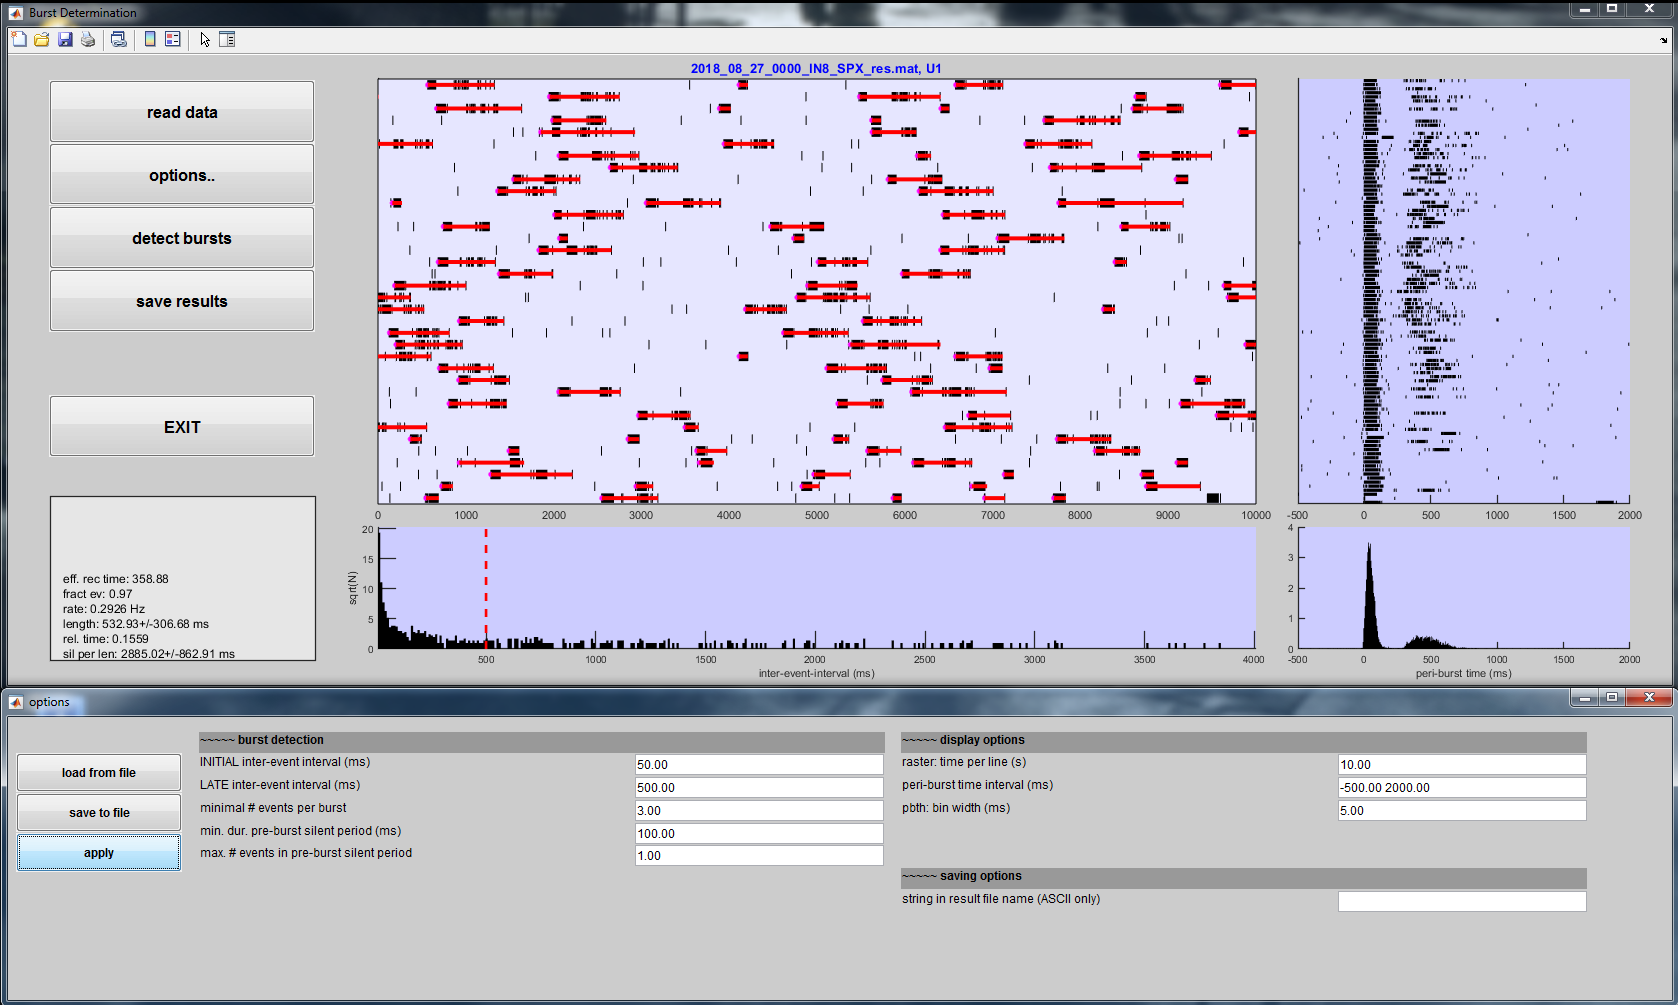
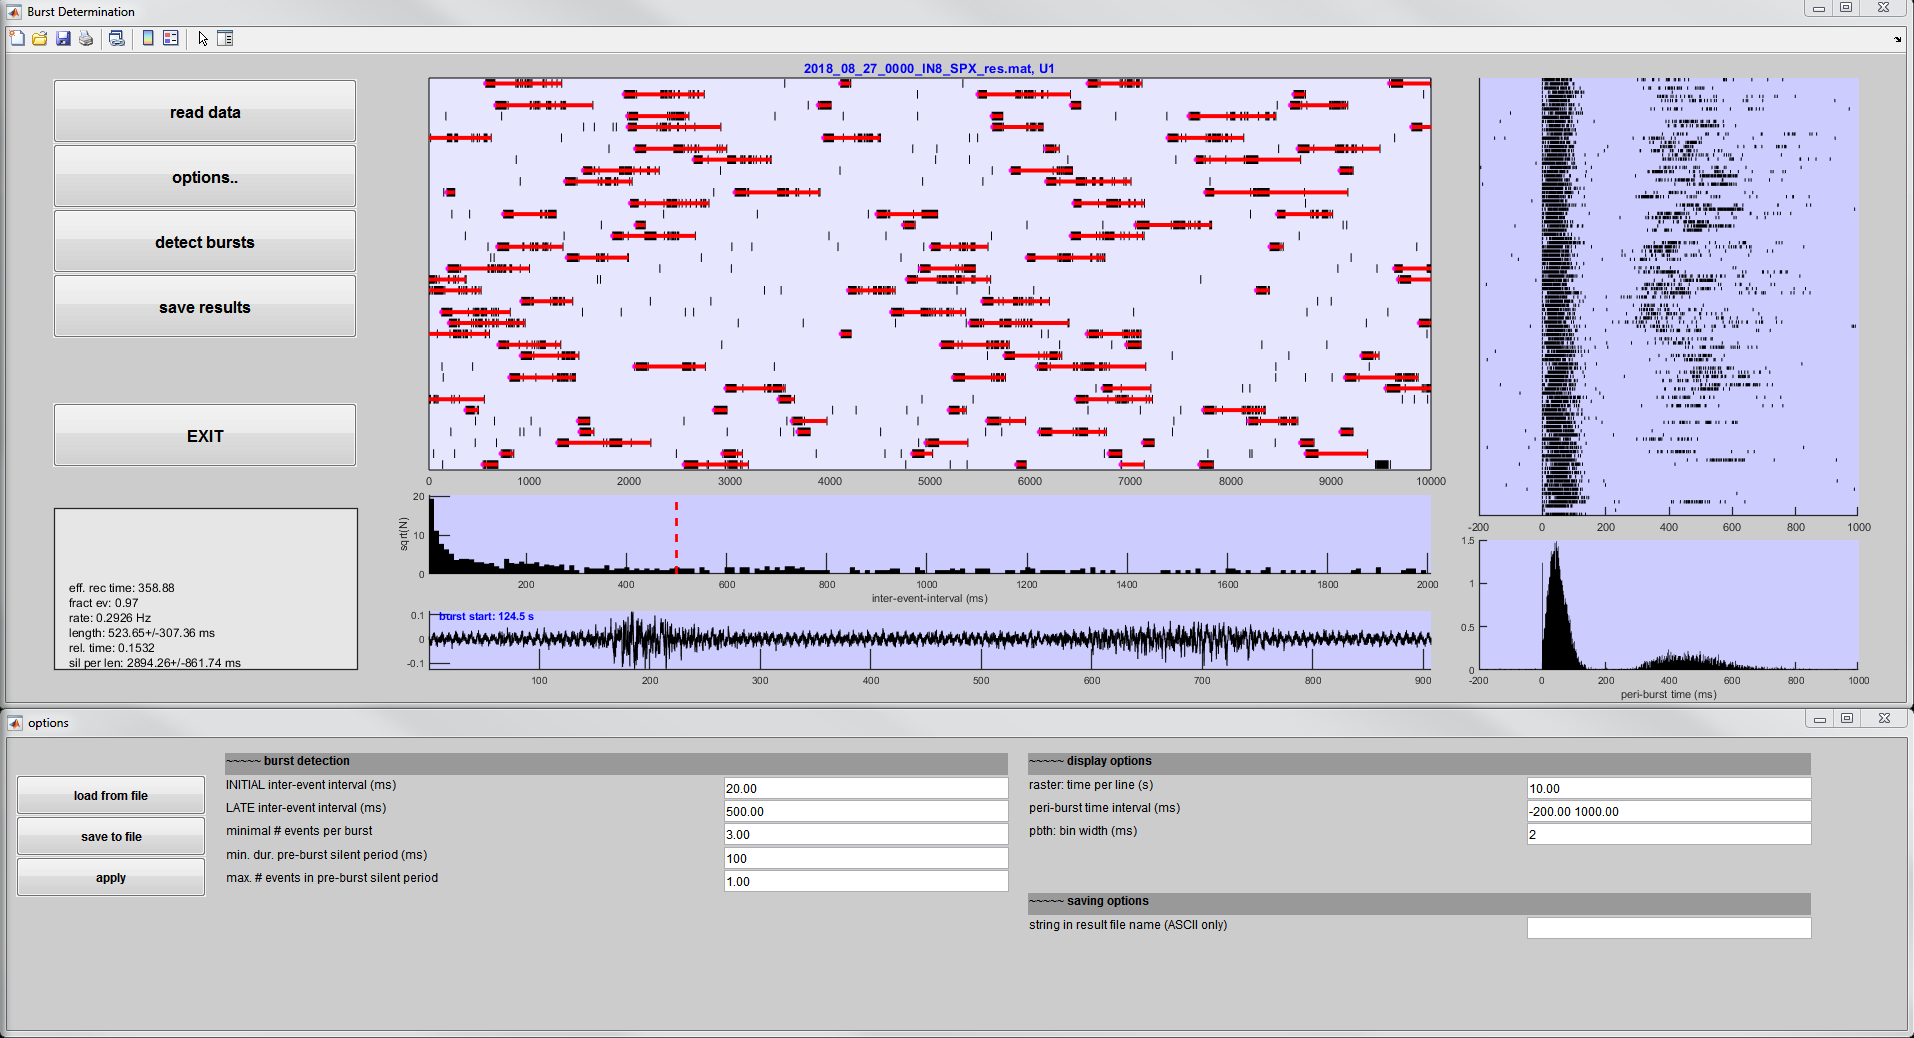
Reverts 'startTs' parameter of etslburstf to 'ev', adjusts subplot y extents

diff --git a/burstdetgui.m b/burstdetgui.m
@@ -129,16 +129,16 @@ set(sp.tslOv.axH,'tag','tslOverview','NextPlot','add');
 sp.tslExc.axH=subplot('position',[la4  0.25+1.5*smarg  1-la4-smarg  0.75-3*smarg]);
 set(sp.tslExc.axH,'tag','tslExcerpt');
 % - info window
-sp.info.axH=subplot('position',[la1  1.5*smarg  butt2x  0.3-1.5*smarg]);
+sp.info.axH=subplot('position',[la1  2.0*smarg  butt2x  0.3-2.0*smarg]);
 set(sp.info.axH,'tag','info');
 % - iei
 sp.iei.axH=subplot('position',[la2  0.16+1.5*smarg  la4-la2-smarg  0.16-1.5*smarg]);
 set(sp.iei.axH,'tag','iei');
 % - raw excerpts
-sp.rawExc.axH=subplot('position',[la2  1.5*smarg  la4-la2-smarg  0.16-1.5*smarg]);
+sp.rawExc.axH=subplot('position',[la2  2.0*smarg  la4-la2-smarg  0.14-2.0*smarg]);
 set(sp.rawExc.axH,'tag','rawExc');
 % - peth
-sp.peth.axH=subplot('position',[la4  1.5*smarg  1-la4-smarg  0.25-1.5*smarg]);
+sp.peth.axH=subplot('position',[la4  2.0*smarg  1-la4-smarg  0.25-2.0*smarg]);
 set(sp.peth.axH,'tag','peth');
 
 burstdetguifunc(H0,[],{'init','openOptionsDialog'},'sp',sp);

diff --git a/burstdetguifunc.m b/burstdetguifunc.m
@@ -477,7 +477,7 @@ while ~done
         'minNEvPerBurst',ap.minNEvPerBurst,...
         'minSilentPerDur',ap.minPreBurstSilentPerLen,...
         'maxSilentPerNEv',ap.maxPreBurstSilentPerNEv,...
-        'startTs','iei');
+        'startTs','ev');
       % tag 'freak bursts'
       bu.etsl(bu.etsl(:,etslc.durCol)>ap.maxNormalBurstLength,etslc.tagCol)=wp.isFreakBurst;
       if ~isempty(evt.tsl)

diff --git a/readme.md b/readme.md
@@ -11,6 +11,7 @@ The code makes use of in-house formats for time information, namely 'time stamp 
 * reads time stamp lists in *.mat files as produced by threshdetgui (see threshDet repository)
 * user-defined specification of all critical parameters defining bursts
 * display of raster plots and detected bursts
+* optional, interactive display of underlying raw data excerpt for each individual burst
 * display of inter-spike-interval histogram
 * display of peri-burst time interval histogram
 * saving to disk of detected bursts as etsl
